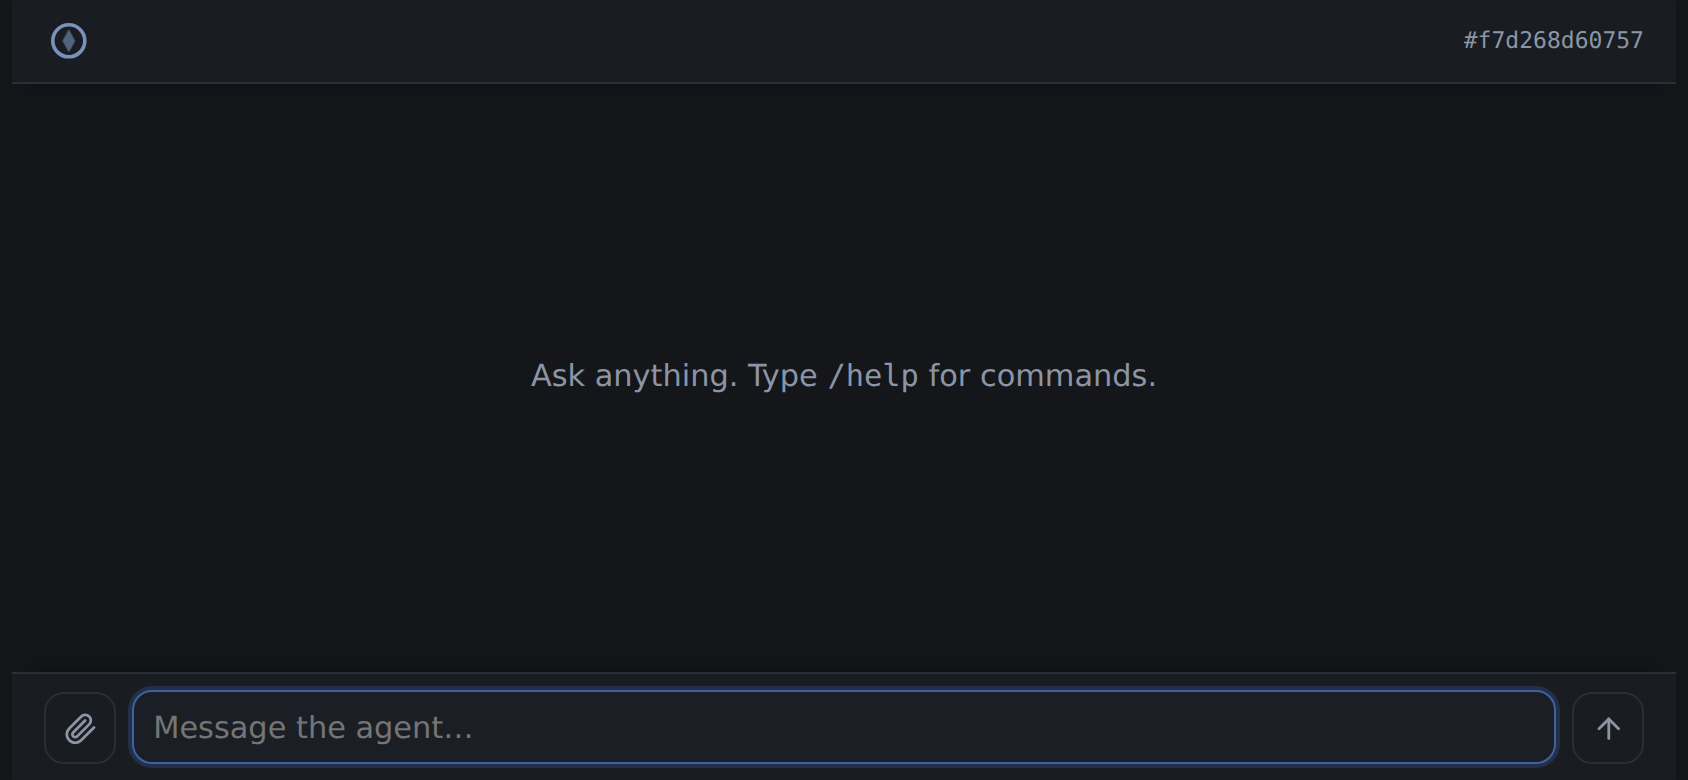
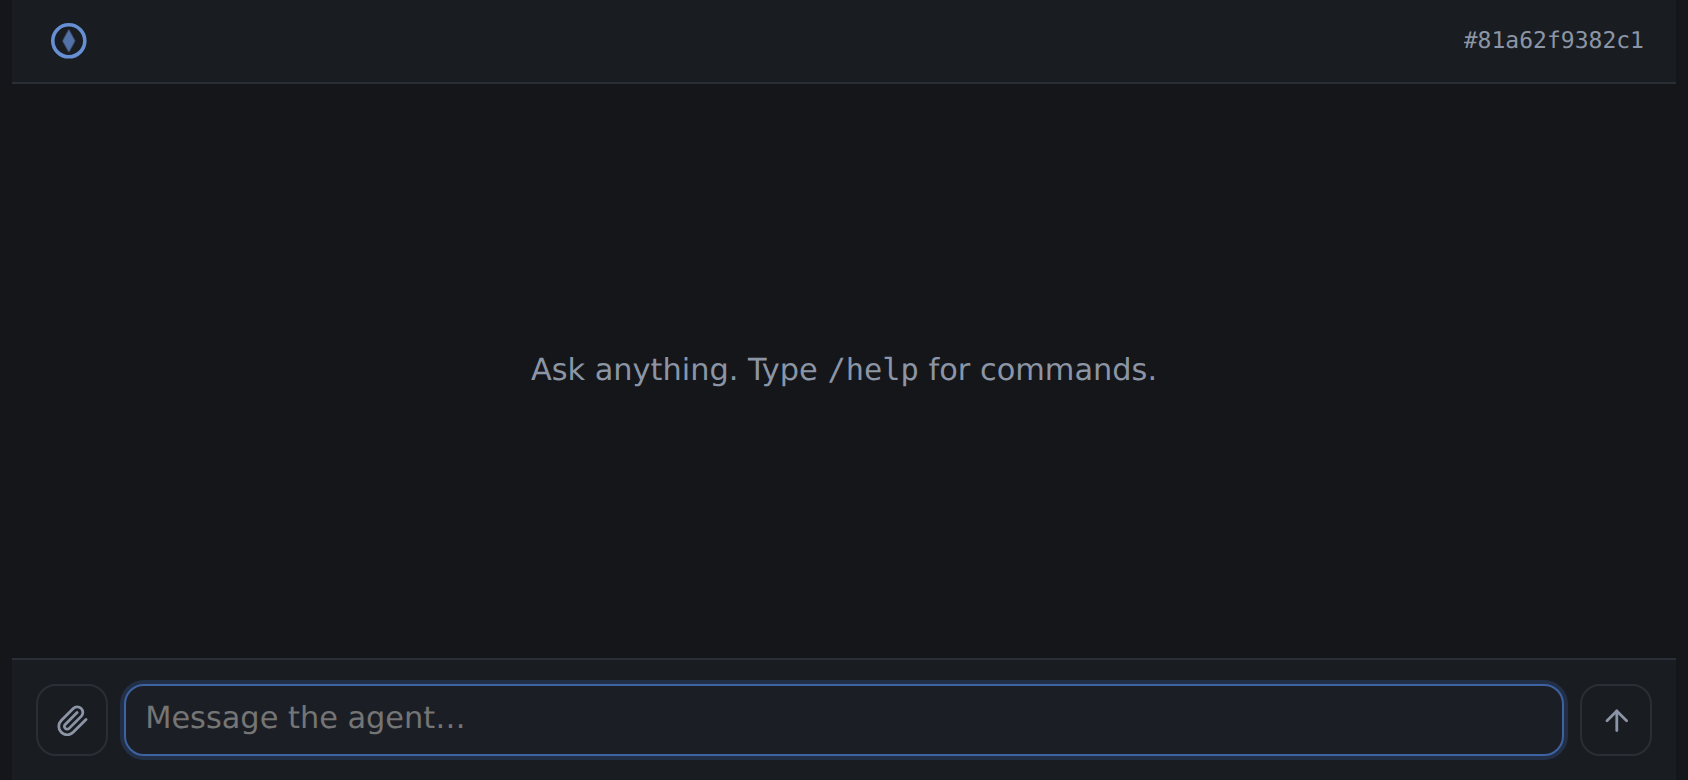
Show a bar shadow only while something is under it, and even the composer
A depth cue that is always on says nothing. The client watches the
discussion and writes `data-under-head` and `data-under-foot` onto the
app, so the header casts a hairline only once content is scrolled up
behind it and the composer only while there is more below the fold; a
conversation that fits on the screen sits on a flat page. The shadow
itself is down from 14px of blur to 3px and from 45% to 30% alpha.

The composer's inset is now the same on every side — it was 0.5rem top
and 1rem left and right, so a button sat twice as far from the edge of
the bar as from the top of it. An empty box is also exactly `--control`
tall now, which is what the buttons beside it measure, so the row is
even rather than three pixels out.

Claude-Session: https://claude.ai/code/session_01BmqfykX7Bs4omYoqRfD7Mi

diff --git a/agent_ui.css b/agent_ui.css
@@ -25,7 +25,7 @@
   --badge-bg: #2a2f37;
   --badge-fg: #d8dee9;
   --scroll: #333a44;
-  --shadow: rgba(0, 0, 0, 0.45);
+  --shadow: rgba(0, 0, 0, 0.3);
 
   --gap: 0.625rem;
   --radius: 0.625rem;
@@ -60,7 +60,7 @@
   --badge-bg: #e3e6ea;
   --badge-fg: #24292f;
   --scroll: #c2c7ce;
-  --shadow: rgba(16, 24, 40, 0.14);
+  --shadow: rgba(16, 24, 40, 0.1);
 }
 
 * {
@@ -109,9 +109,10 @@ body {
 
 /* ---------------------------------------------------------------- header */
 
-/* Both bars sit above the discussion and cast a short shadow onto it, so a
-   block scrolling under one reads as passing behind it rather than colliding
-   with it. They have to be stacked to paint over a later sibling. */
+/* Both bars sit above the discussion; each casts a hairline of shadow onto it
+   only while there is something under that edge to pass behind, which is what
+   `data-under-head` and `data-under-foot` say. They have to be stacked to
+   paint over a later sibling. */
 .bar {
   position: relative;
   z-index: 1;
@@ -121,7 +122,11 @@ body {
   padding: 0.5rem 0.75rem;
   border-bottom: 1px solid var(--border);
   background: var(--bg-soft);
-  box-shadow: 0 6px 14px -8px var(--shadow);
+  transition: box-shadow 0.15s ease;
+}
+
+.app[data-under-head="true"] .bar {
+  box-shadow: 0 2px 3px -2px var(--shadow);
 }
 
 /* The mark is the title and the status light at once: connection and activity
@@ -621,13 +626,19 @@ body {
 
 /* -------------------------------------------------------------- composer */
 
+/* The inset is the same on every side, so a button sits as far from the edge
+   of the bar as it does from the top of it. */
 .composer {
   position: relative;
   z-index: 1;
   border-top: 1px solid var(--border);
   background: var(--bg-soft);
-  padding: 0.5rem 0.75rem calc(0.5rem + env(safe-area-inset-bottom));
-  box-shadow: 0 -6px 14px -8px var(--shadow);
+  padding: 0.5rem 0.5rem calc(0.5rem + env(safe-area-inset-bottom));
+  transition: box-shadow 0.15s ease;
+}
+
+.app[data-under-foot="true"] .composer {
+  box-shadow: 0 -2px 3px -2px var(--shadow);
 }
 
 .attachments {
@@ -707,8 +718,10 @@ body {
   flex: 1 1 auto;
   resize: none;
   max-height: var(--input-max);
+  /* One line of text plus this padding is exactly `--control`, so an empty box
+     is the same height as the buttons beside it and the row is even. */
   min-height: var(--control);
-  padding: 0.5rem 0.6rem;
+  padding: 0.4rem 0.6rem;
   border: 1px solid var(--input-border);
   border-radius: var(--radius);
   background: var(--input-bg);
@@ -842,10 +855,16 @@ body {
   }
 
   .discussion,
-  .composer,
   .bar {
     padding-left: 1rem;
     padding-right: 1rem;
+  }
+
+  .composer {
+    padding-left: 0.75rem;
+    padding-right: 0.75rem;
+    padding-top: 0.75rem;
+    padding-bottom: calc(0.75rem + env(safe-area-inset-bottom));
   }
 
   .block {

diff --git a/agent_ui.js b/agent_ui.js
@@ -469,6 +469,16 @@
 
   // ----------------------------------------------------------------- blocks
 
+  /** Report which edges of the discussion have content under them. A bar casts
+   *  a shadow only while something is passing behind it, so a conversation
+   *  that fits on the screen sits on a flat page. */
+  const edges = () => {
+    const view = el.discussion;
+    const room = view.scrollHeight - view.clientHeight;
+    el.app.dataset.underHead = String(view.scrollTop > 1);
+    el.app.dataset.underFoot = String(room - view.scrollTop > 1);
+  };
+
   /** A block subscribes to content and re-renders itself when it changes. */
   class Block {
     constructor(id, kind, role) {
@@ -514,6 +524,7 @@
       const collapsed = force === undefined ? this.node.dataset.collapsed !== "true" : force;
       this.node.dataset.collapsed = String(collapsed);
       this.toggle.setAttribute("aria-expanded", String(!collapsed));
+      edges();
     }
 
     async copy() {
@@ -580,11 +591,13 @@
       const near =
         el.discussion.scrollHeight - el.discussion.scrollTop - el.discussion.clientHeight;
       if (near < 160) el.discussion.scrollTop = el.discussion.scrollHeight;
+      edges();
     },
     clear() {
       this.map.clear();
       [...el.discussion.querySelectorAll(".block")].forEach((n) => n.remove());
       el.empty.hidden = false;
+      edges();
     },
     note(kind, text) {
       const block = this.ensure(`note-${Date.now()}-${Math.random()}`, kind, "system");
@@ -999,6 +1012,11 @@
 
   el.stop.addEventListener("click", () => Socket.send({ type: "cancel" }));
 
+  el.discussion.addEventListener("scroll", edges, { passive: true });
+  // The view shrinks when the composer grows, which moves both edges too.
+  if (window.ResizeObserver) new ResizeObserver(edges).observe(el.discussion);
+
+  edges();
   resize();
   Socket.connect();
 

diff --git a/GUIDE.md b/GUIDE.md
@@ -716,12 +716,15 @@ Code is a surface rather than a hole: a fence and an inline span both sit on
 face carries more descent than the prose around it and hangs low when it is
 left on the baseline.
 
-Both bars are stacked above the discussion and cast a short shadow onto it, so
-a block scrolling under one passes behind it instead of colliding with it. On
-the composer the box takes every pixel the buttons do not, which puts the
-attachment button against the left edge and send or stop against the right;
-all three buttons wear the same neutral outline, and only the stop icon is
-coloured. The box grows with the text it holds up to 14 rem and takes that
+Both bars are stacked above the discussion, and each casts a hairline of
+shadow onto it only while there is something under that edge to pass behind:
+the client watches the discussion and writes `data-under-head` and
+`data-under-foot` onto the app, so a conversation that fits on the screen sits
+on a flat page. On the composer the box takes every pixel the buttons do not,
+which puts the attachment button against the left edge and send or stop against
+the right; the inset is the same on every side, an empty box is exactly as tall
+as the buttons beside it, and all three buttons wear the same neutral outline
+with only the stop icon coloured. The box grows with the text it holds up to 14 rem and takes that
 height out of the discussion above it rather than covering it, and focus is a
 hairline of accent and a soft ring rather than a heavy halo.
 

diff --git a/CHANGES.md b/CHANGES.md
@@ -493,9 +493,15 @@ hidden selection where the async API is barred, which is every deployment not on
 **Nothing on the chrome competes with the discussion.** A filled accent button
 on the composer is the brightest thing on the page, and it sits next to the one
 region the reader is actually reading. Every composer button now wears the same
-neutral outline and only the stop icon carries a colour, the two bars cast a
-short shadow onto the discussion so a block scrolling under one reads as going
-behind it, and the box between the buttons takes all the width they leave.
+neutral outline and only the stop icon carries a colour, and the box between
+the buttons takes all the width they leave, inset by the same amount on every
+side.
+
+A bar shadow is a depth cue, and a cue that is always on says nothing. Each bar
+casts a hairline only while there is content under that edge — the client
+watches the discussion and writes `data-under-head` and `data-under-foot` — so
+a conversation that fits on the screen sits on a flat page and the shadow
+appears exactly when something is passing behind.
 
 **Code has to be a surface, not a hole.** `--code-bg` was within two points of
 `--bg` in the dark palette, so a fence read as a gap in the text rather than as
